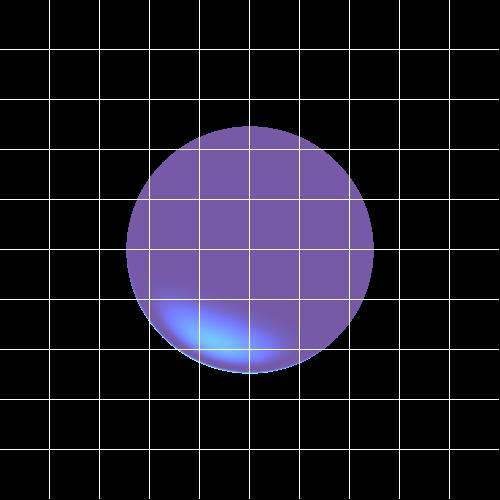
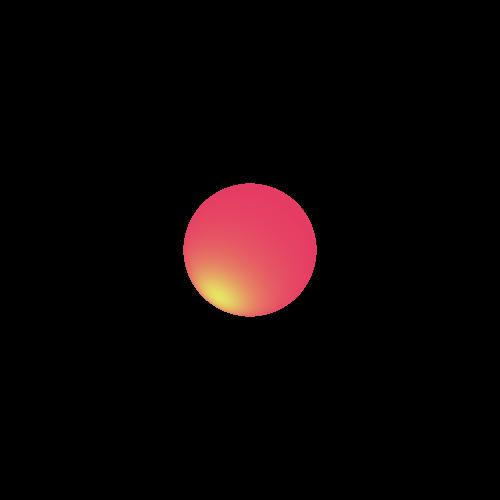
some bugs

diff --git a/unittests/RenderTest.java b/unittests/RenderTest.java
@@ -12,6 +12,7 @@ import com.sun.java.swing.plaf.windows.WindowsInternalFrameTitlePane.ScalableIco
 import elements.AmbientLight;
 import elements.Camera;
 import elements.DirectionalLight;
+import elements.LightSource;
 import elements.PointLight;
 import elements.SpotLight;
 import geometries.Geometries;
@@ -88,9 +89,9 @@ public class RenderTest {
 
 		Render render = new Render(imageWriter, scene);
 		
-		render.renderImage();
-		render.printGrid(50);
-		render.printImage();
+		//render.renderImage();
+		//render.printGrid(50);
+		//render.printImage();
 		
 		System.out.println(new Date().getTime() - date.getTime());
 	}
@@ -101,22 +102,22 @@ public class RenderTest {
 		Date date = new Date();
 		
 		Scene scene = new Scene("Test scene2");
-		scene.set_camera(new Camera(new Point3D(0.0, 0.0, 0.0), new Vector(0.0, -1.0, 0.0), new Vector(0.0, 0.0, 1.0)));
-		scene.set_distance(350);
+		scene.set_camera(new Camera(new Point3D(0.0, 0.0, 0.0), new Vector(0.0, 1.0, 0.0), new Vector(0.0, 0.0, -1.0)));
+		scene.set_distance(50);
 		scene.set_background(new Color(0, 0, 0));
 		Geometries geometries = new Geometries();
 		scene.set_geometries(geometries);
-		scene.set_ambientLight(new AmbientLight());
-		scene.get_lights().add(new PointLight(new Point3D(150,400,150), 1, 0.5, 0.1, new Color(0,70,190)));
+		scene.set_ambientLight(new AmbientLight(new Color(30,30,30),1));
 		
-		geometries.add(new Sphere(50, new Point3D(0, 0, 150), new Color(118, 90, 168), new Material(3, 0.5, 3)));
+		scene.get_lights().add(new PointLight(new Point3D(2,-3,0), 1, 0, 1, new Color(0,255,0)));
+		geometries.add(new Sphere(8, new Point3D(0, 0, -10), new Color(200, 30, 70), new Material(1, 1, 1)));
 		
 		ImageWriter imageWriter = new ImageWriter("testPoint", 500, 500, 500, 500);
 
 		Render render = new Render(imageWriter, scene);
 		
 		render.renderImage();
-		render.printGrid(50);
+		//render.printGrid(50);
 		render.printImage();
 		
 		System.out.println(new Date().getTime() - date.getTime());
@@ -137,15 +138,15 @@ public class RenderTest {
 		scene.get_lights().add(new SpotLight(new Point3D(250,250,250), 1, 0.31, 0.4, new Color(30,30,30), new Vector(-4,-9,-2)));
 
 		
-		geometries.add(new Sphere(50, new Point3D(0, 0, 150), new Color(118, 90, 168), new Material(2, 0.2, 2)));
+		geometries.add(new Sphere(50, new Point3D(0, 0, 150), new Color(118, 90, 168), new Material(2, 0.4, 2)));
 		
 		ImageWriter imageWriter = new ImageWriter("testSpot", 500, 500, 500, 500);
 
 		Render render = new Render(imageWriter, scene);
 		
-		render.renderImage();
-		render.printGrid(50);
-		render.printImage();
+		//render.renderImage();
+		//render.printGrid(50);
+		//render.printImage();
 		
 		System.out.println(new Date().getTime() - date.getTime());
 	}

diff --git a/renderer/Render.java b/renderer/Render.java
@@ -107,6 +107,7 @@ public class Render {
 		int nShininess = geometry.get_material().get_nShininess();
 		double kd = geometry.get_material().get_Kd();
 		double ks = geometry.get_material().get_Ks();
+		
 		for (LightSource lightSource : _scene.get_lights()) {
 			Vector l = new Vector(lightSource.getL(p).normalize());
 			if (n.dotProduct(l) * n.dotProduct(v) > 0) {
@@ -130,7 +131,7 @@ public class Render {
 	 */
 	private Color calcSpecular(double ks, Vector l, Vector n, Vector v, int nShininess, Color lightIntensity) {
 		Vector r = l.add(n.scale(2*(l.dotProduct(n))));
-		return new Color(lightIntensity.scale(ks*Math.pow(Math.abs(r.dotProduct(v)), nShininess)));
+		return (lightIntensity.scale(ks*Math.pow(Math.abs(r.dotProduct(v)), nShininess)));
 	}
 
 	
@@ -142,7 +143,7 @@ public class Render {
 	 * @return Color
 	 */
 	private Color calcDiffusive(double kd, Vector l, Vector n, Color lightIntensity) {
-		return new Color(lightIntensity.scale(kd*Math.abs(l.dotProduct(n))));
+		return lightIntensity.scale(kd*Math.abs(l.dotProduct(n)));
 	}
 
 	/** Finds the closest point on a geometry from list of points of ray intersection

diff --git a/elements/PointLight.java b/elements/PointLight.java
@@ -40,13 +40,15 @@ public class PointLight extends Light implements LightSource {
 	@Override
 	public Color getIntensity(Point3D p) {
 		double l = _position.distance(p);
-		double d = (_Kc < 1 ? _Kc = 1 : _Kc) + _Kl * l + _Kq * l * l;
-		return new Color(getIntensity().reduce(d));
+	//	double d = (_Kc < 1 ? _Kc = 1 : _Kc) + _Kl * l + _Kq * l * l;
+		double d = 1 + _Kl * l + _Kq * l * l;
+
+		return getIntensity().reduce(d);
 	}
 
 	@Override
 	public Vector getL(Point3D p) {
-		return new Vector(p.subtract(_position));
+		return (p.subtract(_position));
 	}
 
 	@Override
